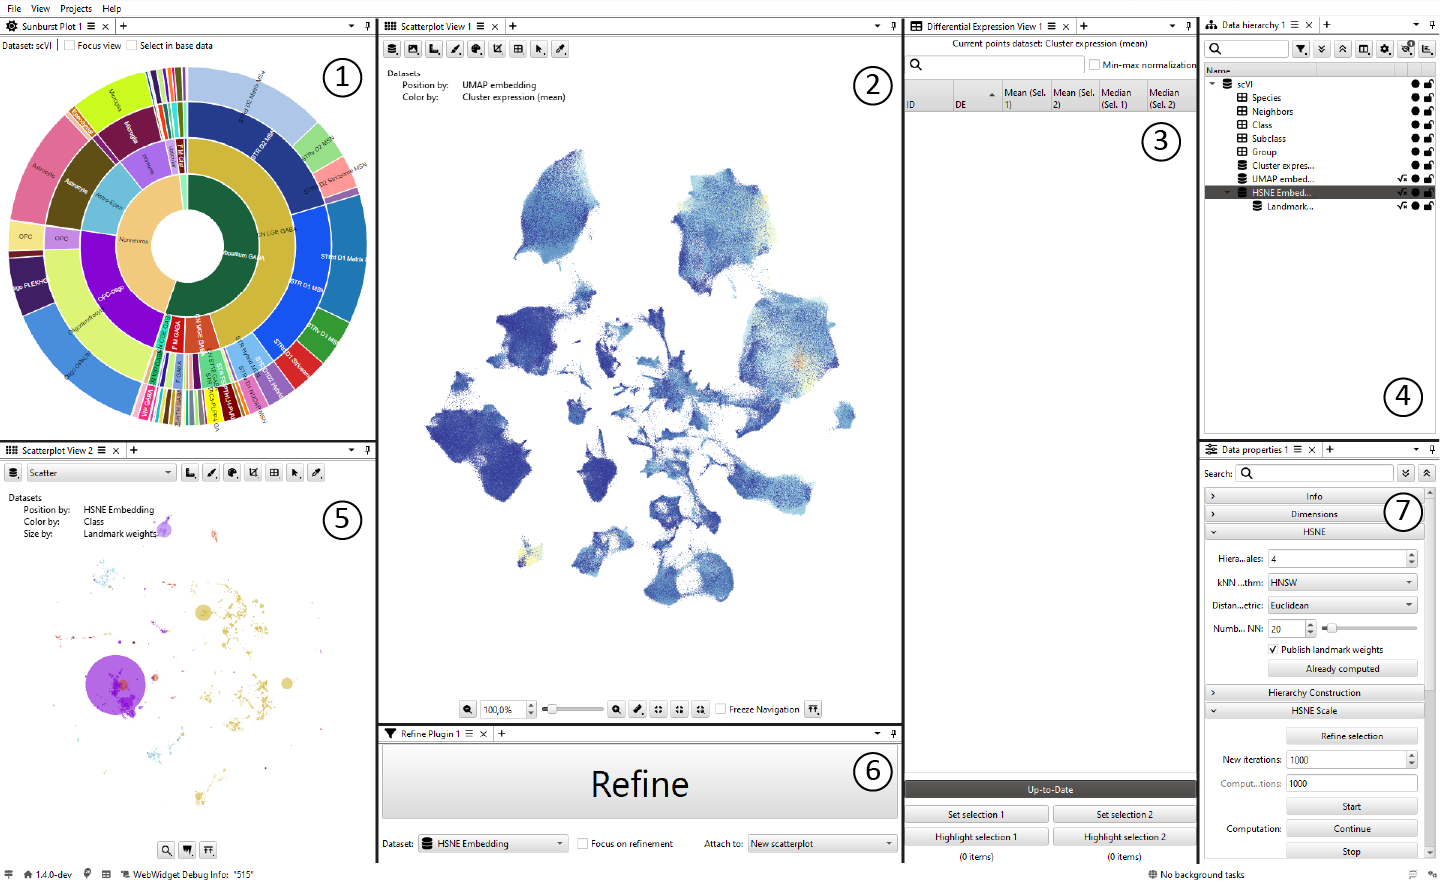
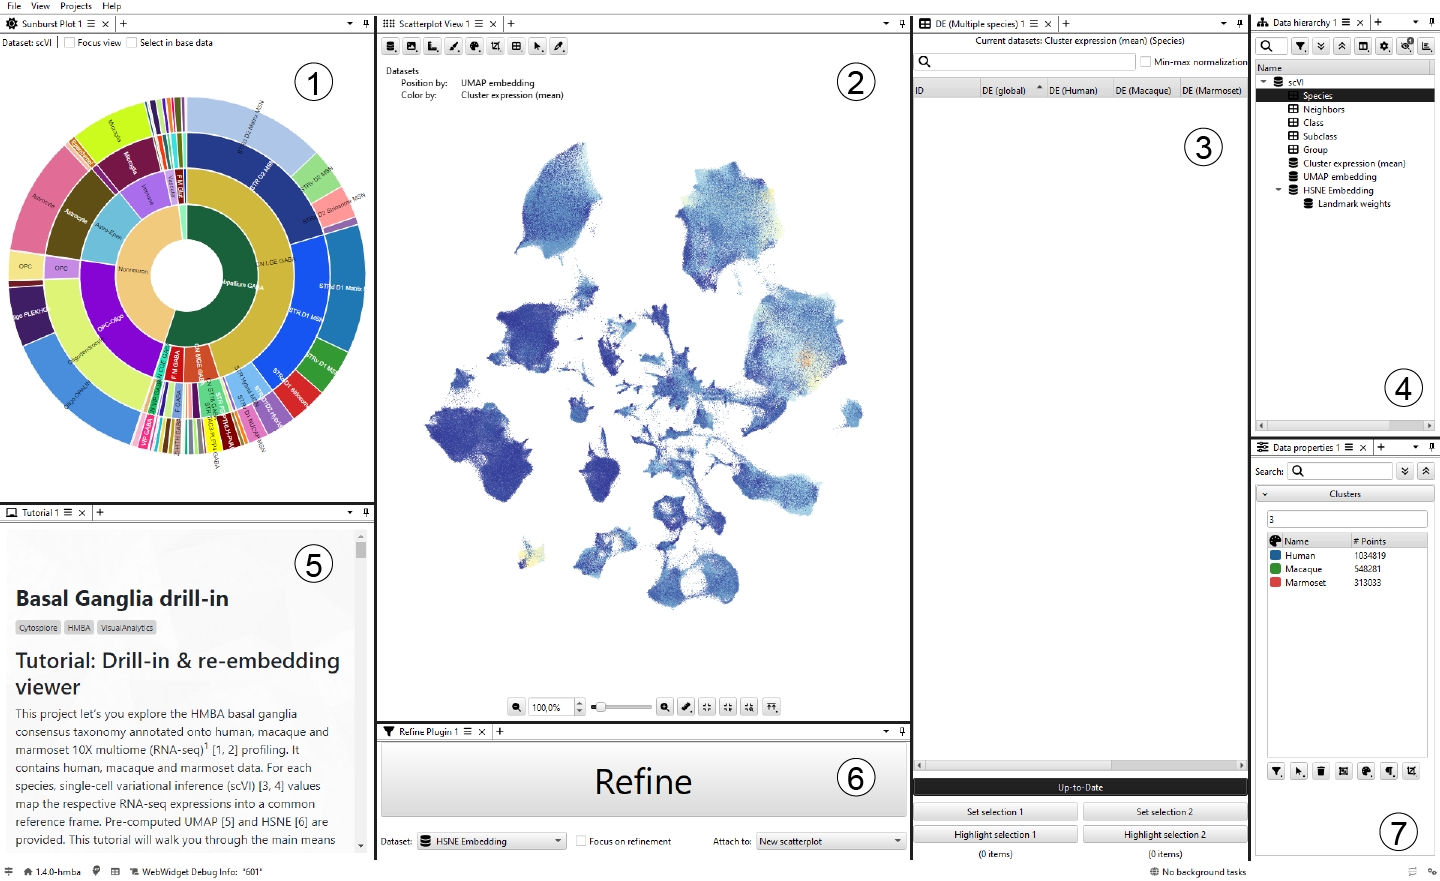
Update Basal Ganglia Drill-in tutorial (#8)
* Add and update gifs and screenshots

* Update tutorial [skip ci]

* Fix capitalization

* Update images

diff --git a/tutorials/Drill_in_demo_turotial.md b/tutorials/Drill_in_demo_turotial.md
@@ -1,15 +1,14 @@
 # Tutorial: Drill-in & re-embedding viewer
 
-This project let's you explore the [HMBA basal ganglia consensus taxonomy](https://alleninstitute.github.io/HMBA_BasalGanglia_Consensus_Taxonomy/) annotated onto human, macaque and marmoset 10X multiome (RNA-seq)<sup>[1](#footnotes)</sup> [[1](https://en.wikipedia.org/wiki/RNA-Seq), [2](https://doi.org/10.1038/s12276-018-0071-8)] profiling. It contains human, macaque and marmoset data. For each species, single-cell variational inference (scVI) [[3](https://doi.org/10.1038/s41592-018-0229-2), [4](https://doi.org/10.1038/s41592-021-01336-8)] values map the respective RNA-seq expressions into a common reference frame. Pre-computed UMAP [[5](https://arxiv.org/abs/1802.03426)] and HSNE [[6](https://doi.org/10.1111/cgf.12878)] are provided. This tutorial will walk you through the main means of interaction with the data, like mapping selections, computing differential expressions, refining HSNE scales and recomputing UMAPs on subsets of the data.
+This project let's you explore RNA-seq data from the [HMBA Basal Ganglia Consensus Cell Type Atlas](https://alleninstitute.github.io/HMBA_BasalGanglia_Consensus_Taxonomy/). It connects RNA-seq data<sup>[1](#footnotes)</sup> [[1](https://en.wikipedia.org/wiki/RNA-Seq), [2](https://doi.org/10.1038/s12276-018-0071-8)] with the consensus taxonomy for human, macaque and marmoset. For each species, single-cell variational inference (scVI) [[3](https://doi.org/10.1038/s41592-018-0229-2), [4](https://doi.org/10.1038/s41592-021-01336-8)] values map the respective RNA-seq expressions from each species into a common reference frame. Pre-computed embeddings (UMAP [[5](https://arxiv.org/abs/1802.03426)] and HSNE [[6](https://doi.org/10.1111/cgf.12878)]) are provided. This tutorial will walk you through the main means of interaction with the data, like mapping selections, computing differential expressions, refining HSNE scales and recomputing embeddings of subsets of the data.
 
 ## Overview
 
 1. A [`sunburst`](https://en.wikipedia.org/wiki/Pie_chart#Ring) plot showing the hierarchical cell type taxonomy for categories that are consistent across species: `Neighbors`, `Class`, `Subclass`, `Group`
 2. A pre-computed `UMAP embedding` of the `scVI` values from all three species, recolored by `Cluster expressions (mean)`
 3. A table of differential expressions for all genes computed on `Cluster expressions (mean)` (empty at the start)
-4. The hierarchy of all data in this project, see [below: _Data hierarchy_
-](#data-hierarchy)
-5. A pre-computed `HSNE embedding` of the `scVI` values from all three species, recolored by `Class` colors
+4. The hierarchy of all data in this project, see [below: _Handling the layout_](#handling-the-layout)
+5. This very tutorial, which you can also detach into a stand-alone window, see [below: _Data hierarchy_](#data-hierarchy)
 6. A large button that will refine a selection in the `HSNE embedding`
 7. An information panel for the currently selected dataset or analysis in the data hierarchy
 
@@ -51,6 +50,27 @@ This project let's you explore the [HMBA basal ganglia consensus taxonomy](https
     </p>
 </div>
 
+### Handling the layout
+
+You can resize and reorder the views in this application. This project also contains some hidden views that you can always choose to toggle visible. The GIFs in this tutorial all show the by default invisible HSNE embedding in place of this tutorial to keep a consistent view of the project structure, but direct interaction with the HSNE embedding is not necessary to make full use this data exploration setup.
+
+<details closed>
+<summary>How to detach and re-attach views (click me to expand)</summary>
+You can drag each view out of the main window by clicking and dragging the views at their names.
+<p align="middle">
+    <img src="./assets/Detach.gif" align="middle" width="100%" />
+</p>
+
+</details>
+
+<details closed>
+<summary>How to show the HSNE top level embedding (click me to expand)</summary>
+A pre-computed <code>HSNE embedding</code> of the <code>scVI</code> values from all three species, recolored by <code>Class</code> colors is not shown by default. This embedding visualizes the same data as the main UMAP embedding, but uses a different algorithm. When you make a selection in the UMAP embedding and "Refine" it (see section <a href="#refine-selections">below: <em>Refine selections</em></a> below), this hierarchy HSNE embedding is the bases of the refinement operation. 
+<p align="middle">
+    <img src="./assets/HSNE-plot.gif" align="middle" width="100%" />
+</p>
+
+</details>
 
 ## Interactions
 The main goal of this viewer is to provide several means of interactively exploration and "zooming into the data".
@@ -93,24 +113,26 @@ The "Min-max normalization" option scales both mean (and median) of each selecti
     <img src="./assets/DE.gif" align="middle" width="100%" />
 </p>
 
-### Drill-in
-Refining selections of the top-level HSNE [[6](https://doi.org/10.1111/cgf.12878)] embedding (lower left) allows you to see more data structure for a subset of the data.
+### Refine selections
+Besides the main UMAP embedding of the RNA-seq data, this project comes with an HSNE [[6](https://doi.org/10.1111/cgf.12878)] embedding of the data. This type of embedding is hierarchical and - in contract to standard embedding techniques like UMAP or t-SNE - creates multiple levels of data abstraction: On the highest level, large-scale structures are emphasized, whereas lower levels encode more detailed structures. By default, the top-level HSNE is hidden (see [above](#handling-the-layout) on how to make it visible). We can use this embedding hierarchy to inspect regions of the data in more detail, for example by selecting a region of interest in the UMAP and "refining" it:
 
-1. Select a subset of cells, e.g. via the taxonomy hierarchy of in a UMAP of HSNE embedding
+1. Select a subset of cells, e.g. via the taxonomy hierarchy or in the UMAP
 2. Click the `Refine` button to drill into this selection
 3. A refined embedding will open in a new scatterplot
-4. Drag and drop meta data, e.g. `subclass` clusters, on the refined embedding
+4. Drag and drop metadata, e.g. `subclass` clusters, on the refined embedding
 
-You can refine HSNE embedding down to the data level. This project starts with a 4-level HSNE hierarchy (one data and three abstraction levels), i.e. you can drill-in three times until reaching the data level.
+Refining selections like this will create a new embedding of the data. For example, in the GIF below, we select a densely populated region in the UMAP and refine it, starting from the highest level of the HSNE hierarchy. This yields a refined view on the data with a more crisp separation of clusters than the UMAP.
 
-The `Refine` button widget provides further settings for the source of the refinement: If you want to further drill into a refinement, select it as the "Dataset" in the drop-down option below the button.
+You can refine HSNE embeddings down to the data level. This project starts with a 4-level HSNE hierarchy (one data and three abstraction levels), i.e., you can refine three times until reaching the data level. In the example below we refine once: the new embedding is situated on the second abstraction level. Note: points in the HSNE refinements do now corresponds to single observations in the data like they do in UMAP; instead, they correspond to a non-exclusive set of observations that are represented by this embedded point. Consequently, selections in the refinements might highlight points outside the selected region, these those points also represent observations covered by the selected embedding points.
+
+The `Refine` button widget provides further settings for the source of the refinement: If you want to further drill into a refinement, select it in the "Dataset" drop-down menu or tick "Focus on refinement" to update this automatically.
 
 <p align="middle">
     <img src="./assets/Refine.gif" align="middle" width="100%" />
 </p>
 
-### Re-embed
-You can compute new UMAP, HSNE, t-SNE or PCA embeddings on either the full data or subsets of the full data in this project. A right-click on an item in the data hierarchy will open a context menu with an `Analyze` entry. Therein, you'll find all available re-embedding options for the respective specific data. Selecting any method will open a settings panel in the `Data properties` widget, showing method-specific options and buttons to start or stop computations.
+### Re-embed the data
+You can compute new UMAP, HSNE, t-SNE or PCA embeddings in this project, either on the full dataset or on a selection. Right-clicking a data item in the `Data hierarchy` (on the right) will open a context menu with an `Analyze` entry. Therein, you'll find all available re-embedding options for the respective specific data. Selecting a method will open a settings panel in the `Data properties` widget, showing method-specific options and buttons to start or stop computations.
 
 For example, we might want to compute a new UMAP of just the marmoset-specific scVI values:
 1. Create a subset of the `scVI` by
@@ -119,6 +141,8 @@ For example, we might want to compute a new UMAP of just the marmoset-specific s
 2. Open a new UMAP analysis via the context menu of the new `Marmoset scVI` data
 3. Adjust settings (optional) and start the computation
 4. Drag and drop the new embedding - which appears as a child to the `Marmoset scVI` data in the data hierarchy - onto a scatterplot, or open it in a new scatterplot via the context-menu.
+
+Computing new UMAPs of the entire data can take a while (say, up to half an hour depending on your local hardware). Computing embeddings of subsets is significantly faster!
 
 <p align="middle">
     <img src="./assets/Recompute.gif" align="middle" width="100%" />
@@ -145,7 +169,7 @@ The data in this project is populated automatically and reproducibly via a [Jupy
 <summary>How to use all expressions for individual genes </summary>
 <div>
     <div style="float: right; width: 40%; margin-left: 10px;">
-        <img src="./assets/sparse_data_access.png" style="width: 100%; display: block;" />
+        <img src="./assets/Sparse_data_access.png" style="width: 100%; display: block;" />
     </div>
     <p>
         You will need to download the full gene expression of the three species and combine them into a single h5 file. The Python script below does this automatically. Note that this will require a LOT of disk space and memory. 
